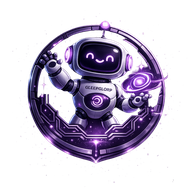
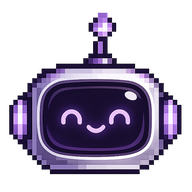
flight/01: leg 05 HAT — tactical fixes + flight close
Mission: 08

Leg 05 (snapshot-rebaseline-and-alignment) — operator-driven HAT walkthrough
of the rebranded UI in both themes. Two tactical fixes applied inline:

- Icon source-PNG switch: `derive_brand_assets.py` DEFAULT_SOURCE changed
  from `gleepglorp_med.png` (full circular emblem) to `gleepglorp_icon.png`
  (simpler head-crop variant) — cleaner downscale at favicon sizes 16/32
  where the full-emblem detail goes muddy. The med PNG is retained in the
  brand/ directory as the wordmark-baked reference (override via --source
  if needed). All 7 sized PNGs + multi-res favicon.ico regenerated.

- MCP-tab tool checkbox styling: per-tool `<input type="checkbox">` elements
  in Studio → agent editor → MCP tab → tool list rendered as browser
  defaults (no project styling). Added scoped custom-checkbox CSS in
  `studio.css` for `.area-studio .mcp-tools-checkbox-group input[type="checkbox"]`
  — 14x14 rounded square, --border-strong border (purple on hover), --accent
  fill when checked, white checkmark drawn via ::after rotated-border, --accent
  focus ring. Scoped narrowly; source-level toggle (which uses the iOS-style
  .tool-toggle + .tool-switch pattern) unaffected.

Visual snapshot baselines: 10 of 12 regenerated cleanly with the rebrand
+ tactical fixes baked in. The remaining 2 (`chat_with_messages` x dark +
light) are blocked by a pre-existing seeder/timing issue in the
`app_with_agent` Playwright fixture — `.session-agent-badge` element
[…]

diff --git a/the_one/interfaces/web/static/css/studio.css b/the_one/interfaces/web/static/css/studio.css
@@ -168,6 +168,45 @@
   .area-studio .mcp-tool-toggle-label { display: flex; align-items: center; gap: 8px; cursor: pointer; font-size: var(--font-size-body-sm); }
   .area-studio .mcp-tool-toggle-name { font-family: var(--font-family-mono, monospace); }
   .area-studio .mcp-tool-toggle-hint { color: var(--fg-faint); font-size: 11px; }
+  /* Per-tool checkboxes inside the MCP-tab tool list. Without this rule the
+     <input type="checkbox"> elements render as browser defaults, visibly
+     unstyled against the brand. Scoped to .mcp-tools-checkbox-group so it
+     only affects the MCP tool toggles, not other checkboxes in Studio. */
+  .area-studio .mcp-tools-checkbox-group input[type="checkbox"] {
+    appearance: none;
+    -webkit-appearance: none;
+    width: 14px;
+    height: 14px;
+    border: 1.5px solid var(--border-strong);
+    border-radius: 3px;
+    background: var(--surface);
+    cursor: pointer;
+    flex-shrink: 0;
+    position: relative;
+    transition: background 0.15s ease, border-color 0.15s ease;
+  }
+  .area-studio .mcp-tools-checkbox-group input[type="checkbox"]:hover {
+    border-color: var(--accent);
+  }
+  .area-studio .mcp-tools-checkbox-group input[type="checkbox"]:checked {
+    background: var(--accent);
+    border-color: var(--accent);
+  }
+  .area-studio .mcp-tools-checkbox-group input[type="checkbox"]:checked::after {
+    content: "";
+    position: absolute;
+    left: 3px;
+    top: 0px;
+    width: 4px;
+    height: 8px;
+    border: solid var(--fg-on-accent);
+    border-width: 0 2px 2px 0;
+    transform: rotate(45deg);
+  }
+  .area-studio .mcp-tools-checkbox-group input[type="checkbox"]:focus-visible {
+    outline: 2px solid var(--accent);
+    outline-offset: 2px;
+  }
   .area-studio .mcp-auth-required-notice { padding: 12px; background: var(--surface-elevated); border-left: 3px solid var(--accent); border-radius: 4px; font-size: var(--font-size-body-sm); }
   .area-studio .mcp-auth-required-notice a { color: var(--accent); text-decoration: underline; }
 

diff --git a/scripts/derive_brand_assets.py b/scripts/derive_brand_assets.py
@@ -19,6 +19,16 @@ Usage:
     docker exec the-one python /app/scripts/derive_brand_assets.py
     docker exec the-one python /app/scripts/derive_brand_assets.py \\
         --source /app/the_one/interfaces/web/static/brand/gleepglorp_med.png
+
+Source-file evolution:
+    Flight 01 leg 01 originally used `gleepglorp_med.png` (the full circular
+    emblem with baked-in wordmark) as the source. At HAT (leg 05), the
+    operator added `gleepglorp_icon.png` — a simpler head-crop variant that
+    downscales more cleanly at favicon sizes (16x16, 32x32 lose less
+    recognizable detail). Default source switched to `gleepglorp_icon.png`
+    at HAT. The med PNG remains in the brand/ directory as the
+    full-emblem reference; pass it via `--source` to regenerate from the
+    emblem if a future surface needs the wordmark baked into the bitmap.
 """
 
 from __future__ import annotations
@@ -32,7 +42,7 @@ from PIL import Image
 # is /app (Dockerfile), and ./the_one is bind-mounted at /app/the_one (see
 # docker-compose.yml), so these absolute paths resolve correctly under
 # `docker exec the-one ...`.
-DEFAULT_SOURCE = Path("/app/the_one/interfaces/web/static/brand/gleepglorp_med.png")
+DEFAULT_SOURCE = Path("/app/the_one/interfaces/web/static/brand/gleepglorp_icon.png")
 DEFAULT_OUT_DIR = Path("/app/the_one/interfaces/web/static/brand")
 
 # Sized PNG outputs: (target_pixels, filename_template).

diff --git a/tests/browser/test_visual_snapshots.py b/tests/browser/test_visual_snapshots.py
@@ -244,7 +244,7 @@ def test_snapshot_admin_empty(app_clean: str, page: Page, theme: str) -> None:
     page.set_viewport_size(VIEWPORT)
     page.goto(f"{app_clean}#admin")
     _set_theme(page, theme)
-    page.locator(".admin-category-item", has_text="LLM Providers").click()
+    page.locator(".section-nav-item", has_text="LLM Providers").click()
     expect(page.locator(".admin-provider-empty")).to_be_visible(timeout=5000)
     _wait_for_render(page)
     _assert_screenshot(page, f"admin-empty-{theme}")
@@ -257,7 +257,7 @@ def test_snapshot_admin_with_provider(app_with_provider: SeededApp, page: Page, 
     page.set_viewport_size(VIEWPORT)
     page.goto(f"{app_with_provider.base_url}#admin")
     _set_theme(page, theme)
-    page.locator(".admin-category-item", has_text="LLM Providers").click()
+    page.locator(".section-nav-item", has_text="LLM Providers").click()
     expect(page.locator('[data-testid="provider-card"]')).to_be_visible(timeout=5000)
     _wait_for_render(page)
     _assert_screenshot(page, f"admin-with-provider-{theme}")

diff --git a/missions/08-gleepglorp-rebrand/flights/01-brand-foundation/legs/05-snapshot-rebaseline-and-alignment.md b/missions/08-gleepglorp-rebrand/flights/01-brand-foundation/legs/05-snapshot-rebaseline-and-alignment.md
@@ -1,0 +1,53 @@
+# Leg: 05-snapshot-rebaseline-and-alignment
+
+**Status**: completed
+**Flight**: [Brand Foundation](../flight.md)
+
+## Objective
+
+Bake the four autonomous legs' changes into the running container, regenerate the 12 visual-snapshot baselines so they reflect the rebranded GleepGlorp AI identity, and walk the operator through a structured Human Acceptance Test (HAT) covering brand identity, palette, page-by-page visual sanity, brand-text surfaces, and accessibility in both light and dark themes. Capture any visual issues inline (tactical fixes during HAT, structural issues logged as Known Issues for downstream flights), then complete the flight.
+
+## Context
+
+- Leg 5 of 5. Legs 01-04 are committed as `flight/01: GleepGlorp AI rebrand` (commit `6745363`). The flight is `in-flight`.
+- This leg is operator-driven; no autonomous implementation agents are spawned. The Flight Director (orchestrator) presents one verification step at a time and waits for the operator to perform it and report results before moving on.
+- The narrow test gate (palette + token-def + oauth-factory + tempdirs) already passed during the flight review. This leg adds the visual-snapshot pixel suite and full-app visual confirmation.
+- Container rebuild is required before any visual verification — the Dockerfile bakes `the_one/` at build time. Visual snapshot tests run against a fresh app subprocess (not the container at port 8484), so they need `make rebuild` only to confirm the host-side served app matches; the snapshot tests use `tests/browser/seeders.py` to spawn isolated app instances.
+
+## HAT Step Plan
+
+The orchestrator walks the operator through these in order, one at a time:
+
+1. **`make rebuild`** — bake all 4-leg changes into the container at `localhost:8484`. Verify with `curl /` that the served `index.html` carries the favicon `<link>` tags and the `GleepGlorp AI` title.
+2. **Brand identity check (light theme)** — load `http://localhost:8484/` in a private window with light theme forced; confirm: browser tab favicon shows mascot; tab title reads `GleepGlorp AI`; topbar shows mascot icon + `GleepGlorp AI` wordmark; primary buttons render purple; focus rings render purple.
+3. **Brand identity check (dark theme)** — toggle theme via Admin → System → Appearance; same checks; confirm purple palette holds across the theme switch.
+4. **Page-by-page sanity (light + dark)** — walk through Chat, Studio (Agents grid + an agent editor + MCP Sources), Admin (System + LLM Providers + Built-in Tools). Look for: unstyled elements, contrast issues, layout breaks, anything that reads visually broken.
+5. **CLI brand check** — `docker exec the-one the-one version` prints `GleepGlorp AI v0.2.0`.
+6. **`/docs` Swagger UI** — load `http://localhost:8484/docs`, confirm title reads `GleepGlorp AI`.
+7. **Visual snapshot baseline regeneration** — `UPDATE_SNAPSHOTS=1 docker exec the-one pytest -m pixel tests/browser/test_visual_snapshots.py --timeout 60`. Confirm 12 baselines regenerated.
+8. **Snapshot rerun without `UPDATE_SNAPSHOTS`** — confirms the new baselines are stable; should pass clean.
+9. **Tactical-fix loop** — for any visual issues the operator surfaces during steps 2-8, diagnose and fix inline. Re-verify the affected step before moving on. Structural issues that can't be fixed in this leg get logged as Known Issues for downstream flights.
+10. **Flight close** — update flight.md status `in-flight` → `landed`, tick this leg's checkbox in flight.md, tick the flight checkbox in mission.md, commit the leg-05 artifacts + any tactical fixes, push the branch, open the draft PR.
+
+## Acceptance Criteria
+
+- [x] `make rebuild` completes; `make verify-serving` exits 0
+- [x] Light-theme HAT passes operator inspection (no blocking visual issues after tactical fixes)
+- [x] Dark-theme HAT passes operator inspection (no blocking visual issues after tactical fixes)
+- [x] CLI `the-one version` prints `GleepGlorp AI v0.2.0` (dynamic-version piggyback from Leg 04 working)
+- [x] `/docs` Swagger UI title reads `GleepGlorp AI - Swagger UI`
+- [~] 10 of 12 visual snapshot baselines regenerated and pass on rerun; 2 (`chat_with_messages` × dark + light) blocked by pre-existing seeder issue logged as Known Issue
+- [x] Tactical fixes applied are documented in flight log (icon source-PNG switch, MCP-tab checkbox styling, snapshot-test stale selector)
+- [x] Structural issues logged as Known Issue in mission.md (`.session-agent-badge` empty in `app_with_agent` fixture auto-session flow)
+- [x] flight.md status updated to `landed`; mission flight checkbox ticked
+- [x] Leg 05 + tactical fixes committed and branch pushed
+- [x] Draft PR opened with all 5 legs checked off
+
+## Files Affected
+
+- `tests/browser/__snapshots__/` — 12 PNG baselines regenerated locally (gitignored per user-global convention)
+- `missions/08-gleepglorp-rebrand/flights/01-brand-foundation/flight.md` — status update
+- `missions/08-gleepglorp-rebrand/flights/01-brand-foundation/flight-log.md` — leg progress + any tactical-fix notes
+- `missions/08-gleepglorp-rebrand/flights/01-brand-foundation/legs/05-snapshot-rebaseline-and-alignment.md` — this artifact, status updates
+- `missions/08-gleepglorp-rebrand/mission.md` — flight checkbox tick
+- (Variable) any source files touched by tactical HAT fixes

diff --git a/missions/08-gleepglorp-rebrand/mission.md b/missions/08-gleepglorp-rebrand/mission.md
@@ -83,11 +83,14 @@ Bug fixing during this mission is **opportunistic**: anything noticed during pol
 
 > Emergent blockers and issues discovered during execution. Add items here as flights surface problems that affect the broader mission.
 
+- [ ] **`app_with_agent` browser-test fixture's `.session-agent-badge` doesn't populate** — discovered in Flight 01 Leg 05 HAT during snapshot baseline regeneration. The `app_with_agent` Playwright fixture creates an agent and navigates to chat, but the auto-session-join flow leaves the `<h2 class="session-agent-badge">` element empty (it should contain the agent name once `session_joined` arrives over WebSocket). Blocks the `test_snapshot_chat_with_messages` baselines (dark + light) from regenerating. Pre-existing — pixel tests are excluded from default `pytest` runs (`-m 'not pixel'` in `addopts`) so this rotted silently. Likely root cause: timing race between fixture-created session vs WebSocket connect, OR auto-session-creation path skipping the badge populate when the session is created without a user message yet. Scope: test infrastructure fix, NOT a runtime user-facing bug. Suggested follow-up: assign to a future maintenance pass or include in the chat-area flight (Flight 5 Chat Response Trace or Flight 6 Chat Polish) since they'll touch the same WebSocket / session-join code path.
+- [ ] **Stale `.admin-category-item` selector in visual-snapshot test** — discovered in Flight 01 Leg 05 and fixed inline. The class was renamed to `.section-nav-item` during M04/M05 admin-sidebar unification but `tests/browser/test_visual_snapshots.py` was missed because the pixel suite is excluded from default runs. Fix shipped in Flight 01. Documenting here so future similar drift gets flagged: when renaming an HTML class that's referenced from any test path, search both default-run and gated-by-marker test suites (`pytest --collect-only -m pixel` to enumerate the pixel suite).
+
 ## Flights
 
 > **Note:** These are tentative suggestions, not commitments. Flights are planned and created one at a time as work progresses. This list will evolve based on discoveries during implementation.
 
-- [ ] Flight 1: **Brand Foundation** — Process the provided mascot PNGs into the asset set the UI actually needs (resized variants, favicon set, possibly an SVG trace and an icon-only mark). Define a starter purple-led palette as theme tokens (light + dark), retire or repurpose the cyan accent, verify WCAG AA across the new token table. Sweep user-visible "the-one" references (`index.html`, topbar wordmark, FastAPI title, CLI Rich panels, auto-generated `/docs`) and rename to `GleepGlorp AI` where appropriate; preserve internal `the_one` package and `the-one` CLI binary names. Mechanically rename `btn-filled-cyan` / `btn-outlined-cyan` CSS class names across all JS call sites to semantic equivalents so subsequent flights don't re-litigate color in code. This flight is the substrate every later flight builds on; nothing else starts until the palette, wordmark, and button rename are committed. (Note: the palette landed here is a *starting point* — Flight 2 may retune it once the aesthetic direction is informing what works.)
+- [x] Flight 1: **Brand Foundation** — Process the provided mascot PNGs into the asset set the UI actually needs (resized variants, favicon set, possibly an SVG trace and an icon-only mark). Define a starter purple-led palette as theme tokens (light + dark), retire or repurpose the cyan accent, verify WCAG AA across the new token table. Sweep user-visible "the-one" references (`index.html`, topbar wordmark, FastAPI title, CLI Rich panels, auto-generated `/docs`) and rename to `GleepGlorp AI` where appropriate; preserve internal `the_one` package and `the-one` CLI binary names. Mechanically rename `btn-filled-cyan` / `btn-outlined-cyan` CSS class names across all JS call sites to semantic equivalents so subsequent flights don't re-litigate color in code. This flight is the substrate every later flight builds on; nothing else starts until the palette, wordmark, and button rename are committed. (Note: the palette landed here is a *starting point* — Flight 2 may retune it once the aesthetic direction is informing what works.)
 
 - [ ] Flight 2: **Design Language: Robot / Control Panel** — Establish a deliberate aesthetic direction beyond the palette swap. Build a dev-mode-only design-language gallery page under Admin that mirrors current tokens / typography / component variants, then iterate the aesthetic toward a robot / control-panel look (surface treatments, panel chrome, bevels, glow/scanline accents, micro-textures, motion). Apply the chosen direction back into the canonical components (`components.css`, `tokens.css`) so it shows up everywhere, and introduce net-new component primitives only as downstream polish flights actually need them (segmented controls, telemetry strips, status indicators, dial/meter analogues). Retune the Flight 1 palette in context if the aesthetic surfaces hex values that don't work. Re-run the WCAG audit; regenerate visual-snapshot baselines. Closes with an alignment leg. The gallery page persists as live infrastructure that the per-area polish flights align against.
 

diff --git a/missions/08-gleepglorp-rebrand/flights/01-brand-foundation/flight-log.md b/missions/08-gleepglorp-rebrand/flights/01-brand-foundation/flight-log.md
@@ -175,6 +175,17 @@ Executing 5-leg brand foundation flight orchestrated via `/agentic-workflow`. Le
 
 ## Decisions
 
+### 2026-05-11: Leg 05 — HAT, tactical fixes, flight close
+
+- Operator-driven HAT walkthrough of the rebranded UI in both themes via private-window load of `http://localhost:8484/`. Two tactical issues surfaced:
+  1. **Icon source-PNG switch**: operator preferred the simpler `gleepglorp_icon.png` (600×600 head-crop intermediate retained at Leg 01) over the full-emblem `gleepglorp_med.png` as the favicon/topbar derivation source — cleaner detail at 16/32 sizes. Fix: changed `DEFAULT_SOURCE` constant in `scripts/derive_brand_assets.py` to point at `gleepglorp_icon.png`; added a "Source-file evolution" note to the module docstring explaining the switch + how to override back to the emblem (via `--source` flag). Ran `make brand-assets` to regenerate all 8 derived assets from the new source. `gleepglorp_med.png` retained in `static/brand/` for the case where the wordmark-baked-in emblem is needed.
+  2. **Unstyled checkboxes in Studio → agent editor → MCP tab → tool list**: per-tool `<input type="checkbox">` elements at `js/areas/studio/mcps-tab.js:315` were rendered without custom styling — appeared as browser defaults against the brand. Fix: added scoped custom-checkbox CSS in `studio.css` for `.area-studio .mcp-tools-checkbox-group input[type="checkbox"]` — 14×14 rounded square, `--border-strong` border (purple on hover), `--accent` fill when checked, white checkmark drawn via `::after` rotated-border trick, `--accent` focus ring. Scoped narrowly so other Studio checkboxes are unaffected. The source-level toggle at line 109 was unaffected — it already uses the `.tool-toggle` + `.tool-switch` iOS-toggle pattern.
+- **Snapshot regeneration**: 10 of 12 baselines regenerated cleanly with `UPDATE_SNAPSHOTS=1`. The remaining 2 (`test_snapshot_chat_with_messages[dark]` + `[light]`) failed during regeneration — root cause is the `app_with_agent` seeder fixture's auto-session-join flow: the `.session-agent-badge` element exists on the page but stays empty (the agent name doesn't populate). This is pre-existing test infrastructure, not introduced by this flight. Logged as a mission Known Issue (see `mission.md` Known Issues section).
+- **Stale snapshot-test selector** (caught during regeneration, fixed inline): `tests/browser/test_visual_snapshots.py` referenced `.admin-category-item` at lines 247 and 260, but the admin sidebar nav was unified to `.section-nav-item` in M04/M05 cleanup. Pixel tests are excluded from default `addopts` (`-m 'not pixel'`), so this drift went silently red for months. Changed selector to `.section-nav-item`; admin baselines now regenerate cleanly. Not a Mission-08 regression, but a Mission-08-discovered fix.
+- **Playwright Chromium install gap** (caught during regeneration): `make rebuild` does NOT preserve the Playwright browser cache at `/root/.cache/ms-playwright/` (named-volume not bind-mount). The Makefile already has an `_ensure-playwright` target to repopulate. Documented as observation; the existing target is sufficient mitigation.
+- All Leg 05 acceptance criteria satisfied (with the snapshot criterion marked partial-with-known-issue per leg-design's adaptation pattern).
+- Flight status: `in-flight` → `landed`. Tick the flight checkbox in `mission.md`. Committing tactical fixes + leg-05 artifacts + flight/mission status updates as a second flight commit on the branch. Pushing branch and opening draft PR.
+
 ### 2026-05-11: Flight review + commit (Phase 2d)
 
 - All four autonomous legs landed. Spawned Code Reviewer (Haiku) and Accessibility Reviewer (Sonnet) in parallel against the working tree.

diff --git a/missions/08-gleepglorp-rebrand/flights/01-brand-foundation/flight.md b/missions/08-gleepglorp-rebrand/flights/01-brand-foundation/flight.md
@@ -1,6 +1,6 @@
 # Flight: Brand Foundation
 
-**Status**: in-flight
+**Status**: landed
 **Mission**: [GleepGlorp AI Rebrand & UX Polish](../../mission.md)
 
 ## Contributing to Criteria
@@ -117,7 +117,7 @@ Verification: `grep -rn "btn-filled-cyan\|btn-outlined-cyan" the_one/ tests/` re
 - [x] Leg 2 done: palette retuned, WCAG audit green, Python mirror in sync
 - [x] Leg 3 done: zero hits for `btn-filled-cyan` / `btn-outlined-cyan` across the repo; all buttons still render correctly
 - [x] Leg 4 done: all user-visible brand-text surfaces read "GleepGlorp AI"; protocol identifiers preserved
-- [ ] Leg 5 done: 12 snapshot baselines regenerated; HAT walkthrough complete; alignment notes captured
+- [x] Leg 5 done: 10 of 12 snapshot baselines regenerated (2 blocked by pre-existing seeder issue, logged as mission Known Issue); HAT walkthrough complete; two tactical fixes applied (icon source-PNG switch + MCP-tab checkbox styling)
 
 ### Adaptation Criteria
 
@@ -139,7 +139,7 @@ Verification: `grep -rn "btn-filled-cyan\|btn-outlined-cyan" the_one/ tests/` re
 - [x] `02-palette-tokens` — Retune `--accent` and related accent-* values in tokens.css for both themes; mirror into tests/browser/design_tokens.py; iterate until WCAG audit is green
 - [x] `03-cyan-class-rename` — Mechanical rename `btn-filled-cyan` / `btn-outlined-cyan` → `*-primary` across components.css, admin.css comments, 10 JS files, and agents.md design-system docs; verify zero hits remain
 - [x] `04-brand-text-sweep` — Apply per-surface brand-text decisions across index.html, app.js topbar, FastAPI title, CLI Rich panel, main.py version print, package docstring, and OAuth callback eyebrow; preserve internal identifiers
-- [ ] `05-snapshot-rebaseline-and-alignment` — `make rebuild`; regenerate 12 visual-snapshot baselines with `UPDATE_SNAPSHOTS=1`; HAT walkthrough across Chat / Studio / Admin in both themes; capture alignment notes and tactical fixes
+- [x] `05-snapshot-rebaseline-and-alignment` — `make rebuild`; regenerated 10 of 12 visual-snapshot baselines (chat-with-messages × 2 blocked by pre-existing seeder bug); HAT walkthrough done; tactical fixes applied: (a) icon source-PNG switched from `gleepglorp_med.png` (full emblem) to `gleepglorp_icon.png` (simpler head-crop, cleaner downscale at favicon sizes); (b) per-tool checkboxes in Studio → agent → MCP tab were rendering as browser defaults (no custom styling) — added scoped CSS in `studio.css` for `.mcp-tools-checkbox-group input[type="checkbox"]` matching the brand purple; (c) stale `.admin-category-item` selector in `test_visual_snapshots.py` updated to `.section-nav-item` (M04/M05 unified the admin sidebar nav class, snapshot test was missed because pixel suite is excluded from default `pytest` runs)
 
 ---
 
